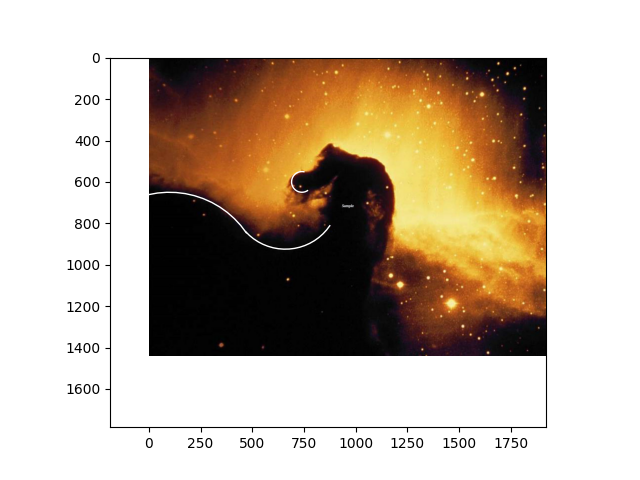
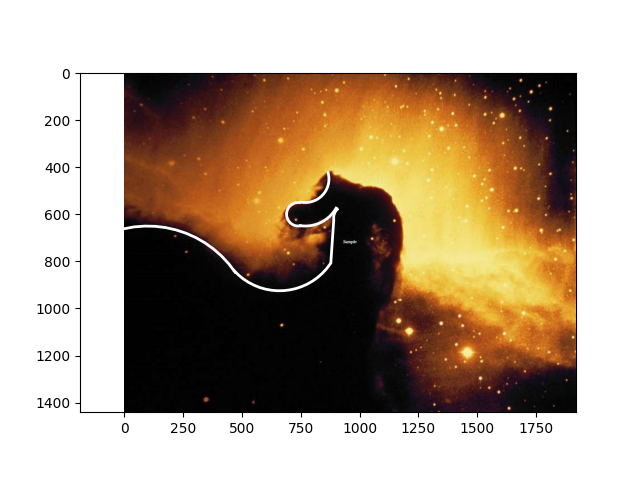
Horse_2

diff --git a/Horse.py b/Horse.py
@@ -17,23 +17,27 @@ def parab(a, b, c, x0, x1, y0):
     y = (a*x)**2+b*x+c+y0
     return x, y
 
-def line(x0, x1, y0, y1):
-    
-    return x, y
 
 coords = circle(450, 100, 1100, -2, -0.5)
-plt.plot(coords[0], coords[1], lw=1, color='w', zorder=1)
+plt.plot(coords[0], coords[1], lw=2, color='w', zorder=1)
 
 
 coords_1 = circle(260, 660, 665, 0.6, 2.5)
-plt.plot(coords_1[0], coords_1[1], lw=1, color='w', zorder=1)
+plt.plot(coords_1[0], coords_1[1], lw=2, color='w', zorder=1)
+
+plt.plot([878, 890], [805, 630], lw=2, color='w', zorder=1)
 
 
-coords_2 = line()
-plt.plot(coords_2[0], coords_2[1], lw=1, color='w', zorder=1)
+coords_3 = circle(50, 940, 615, 3.05, 4.05)
+plt.plot(coords_3[0], coords_3[1], lw=2, color='w', zorder=1)
 
-coords_5 = circle(50, 740, 600, 1, 5)
-plt.plot(coords_5[0], coords_5[1], lw=1, color='w', zorder=1)
+coords_4 = circle(150, 770, 500, 6.8, 8)
+plt.plot(coords_4[0], coords_4[1], lw=2, color='w', zorder=1)
 
+coords_5 = circle(50, 740, 600, 1.4, 4.9)
+plt.plot(coords_5[0], coords_5[1], lw=2, color='w', zorder=1)
+
+coords_6 = circle(100, 770, 450, 6, 8.1)
+plt.plot(coords_6[0], coords_6[1], lw=2, color='w', zorder=1)
 
 plt.savefig('new_horse.png')
